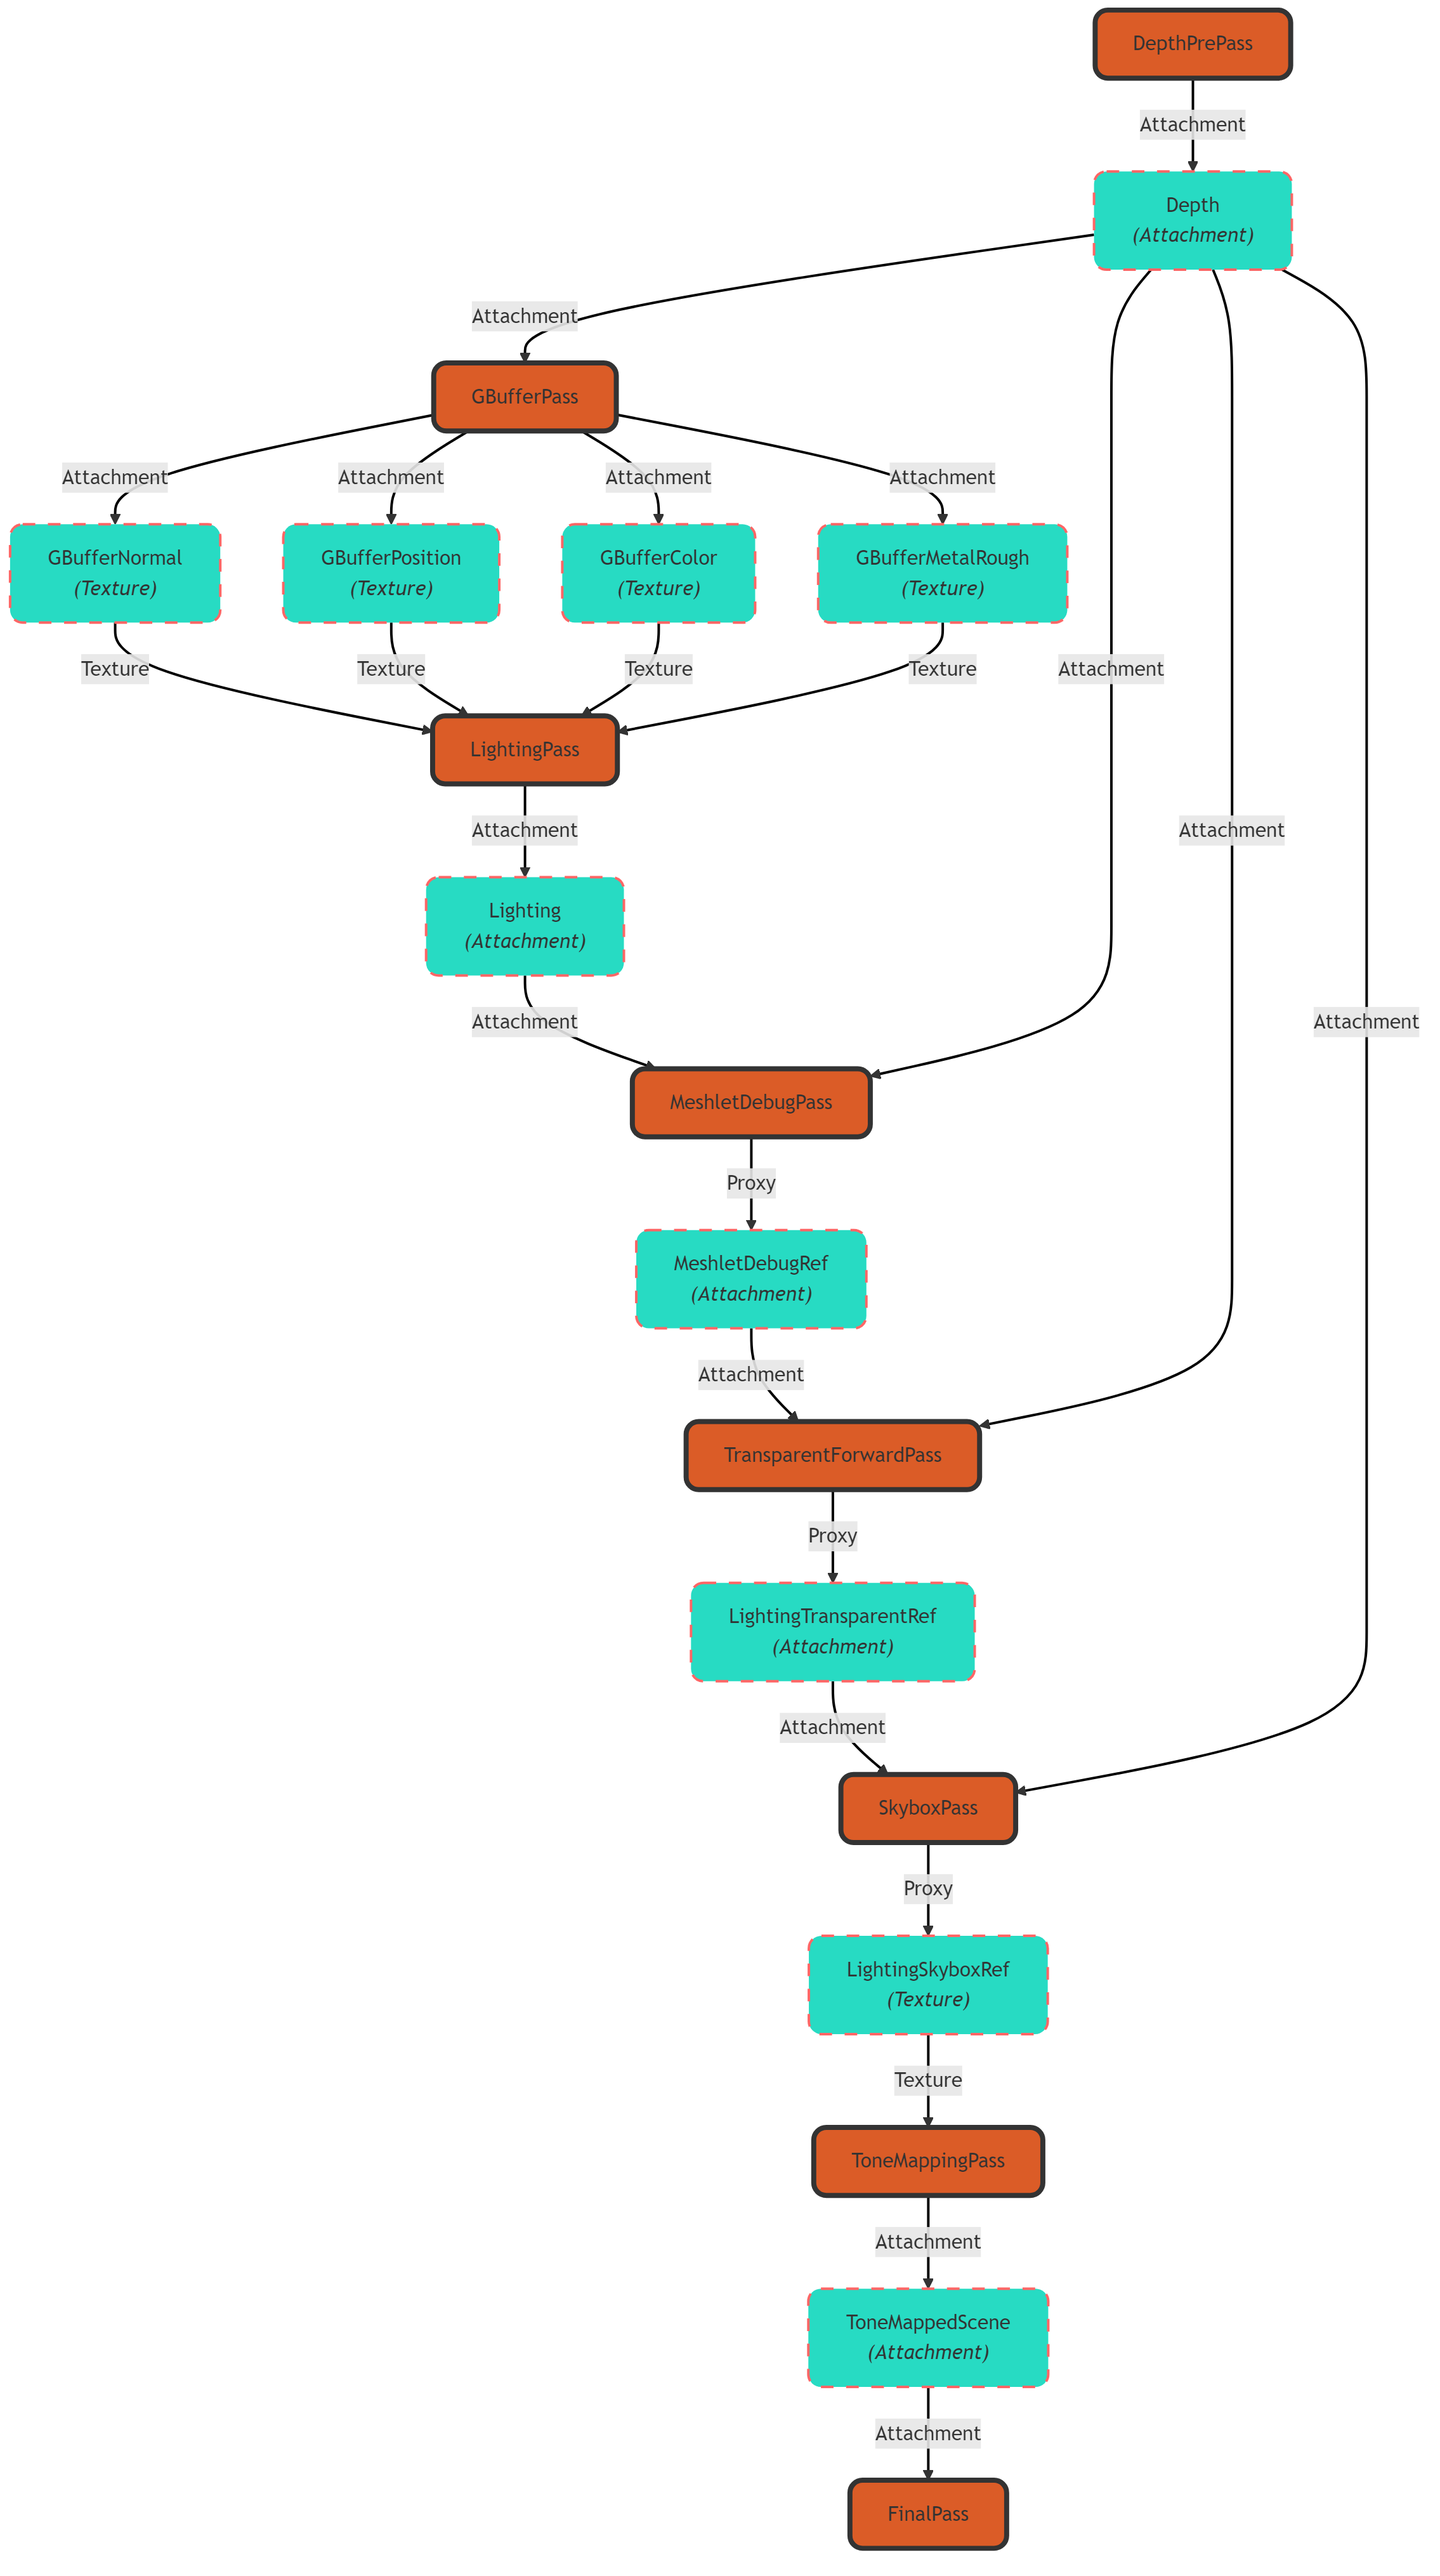
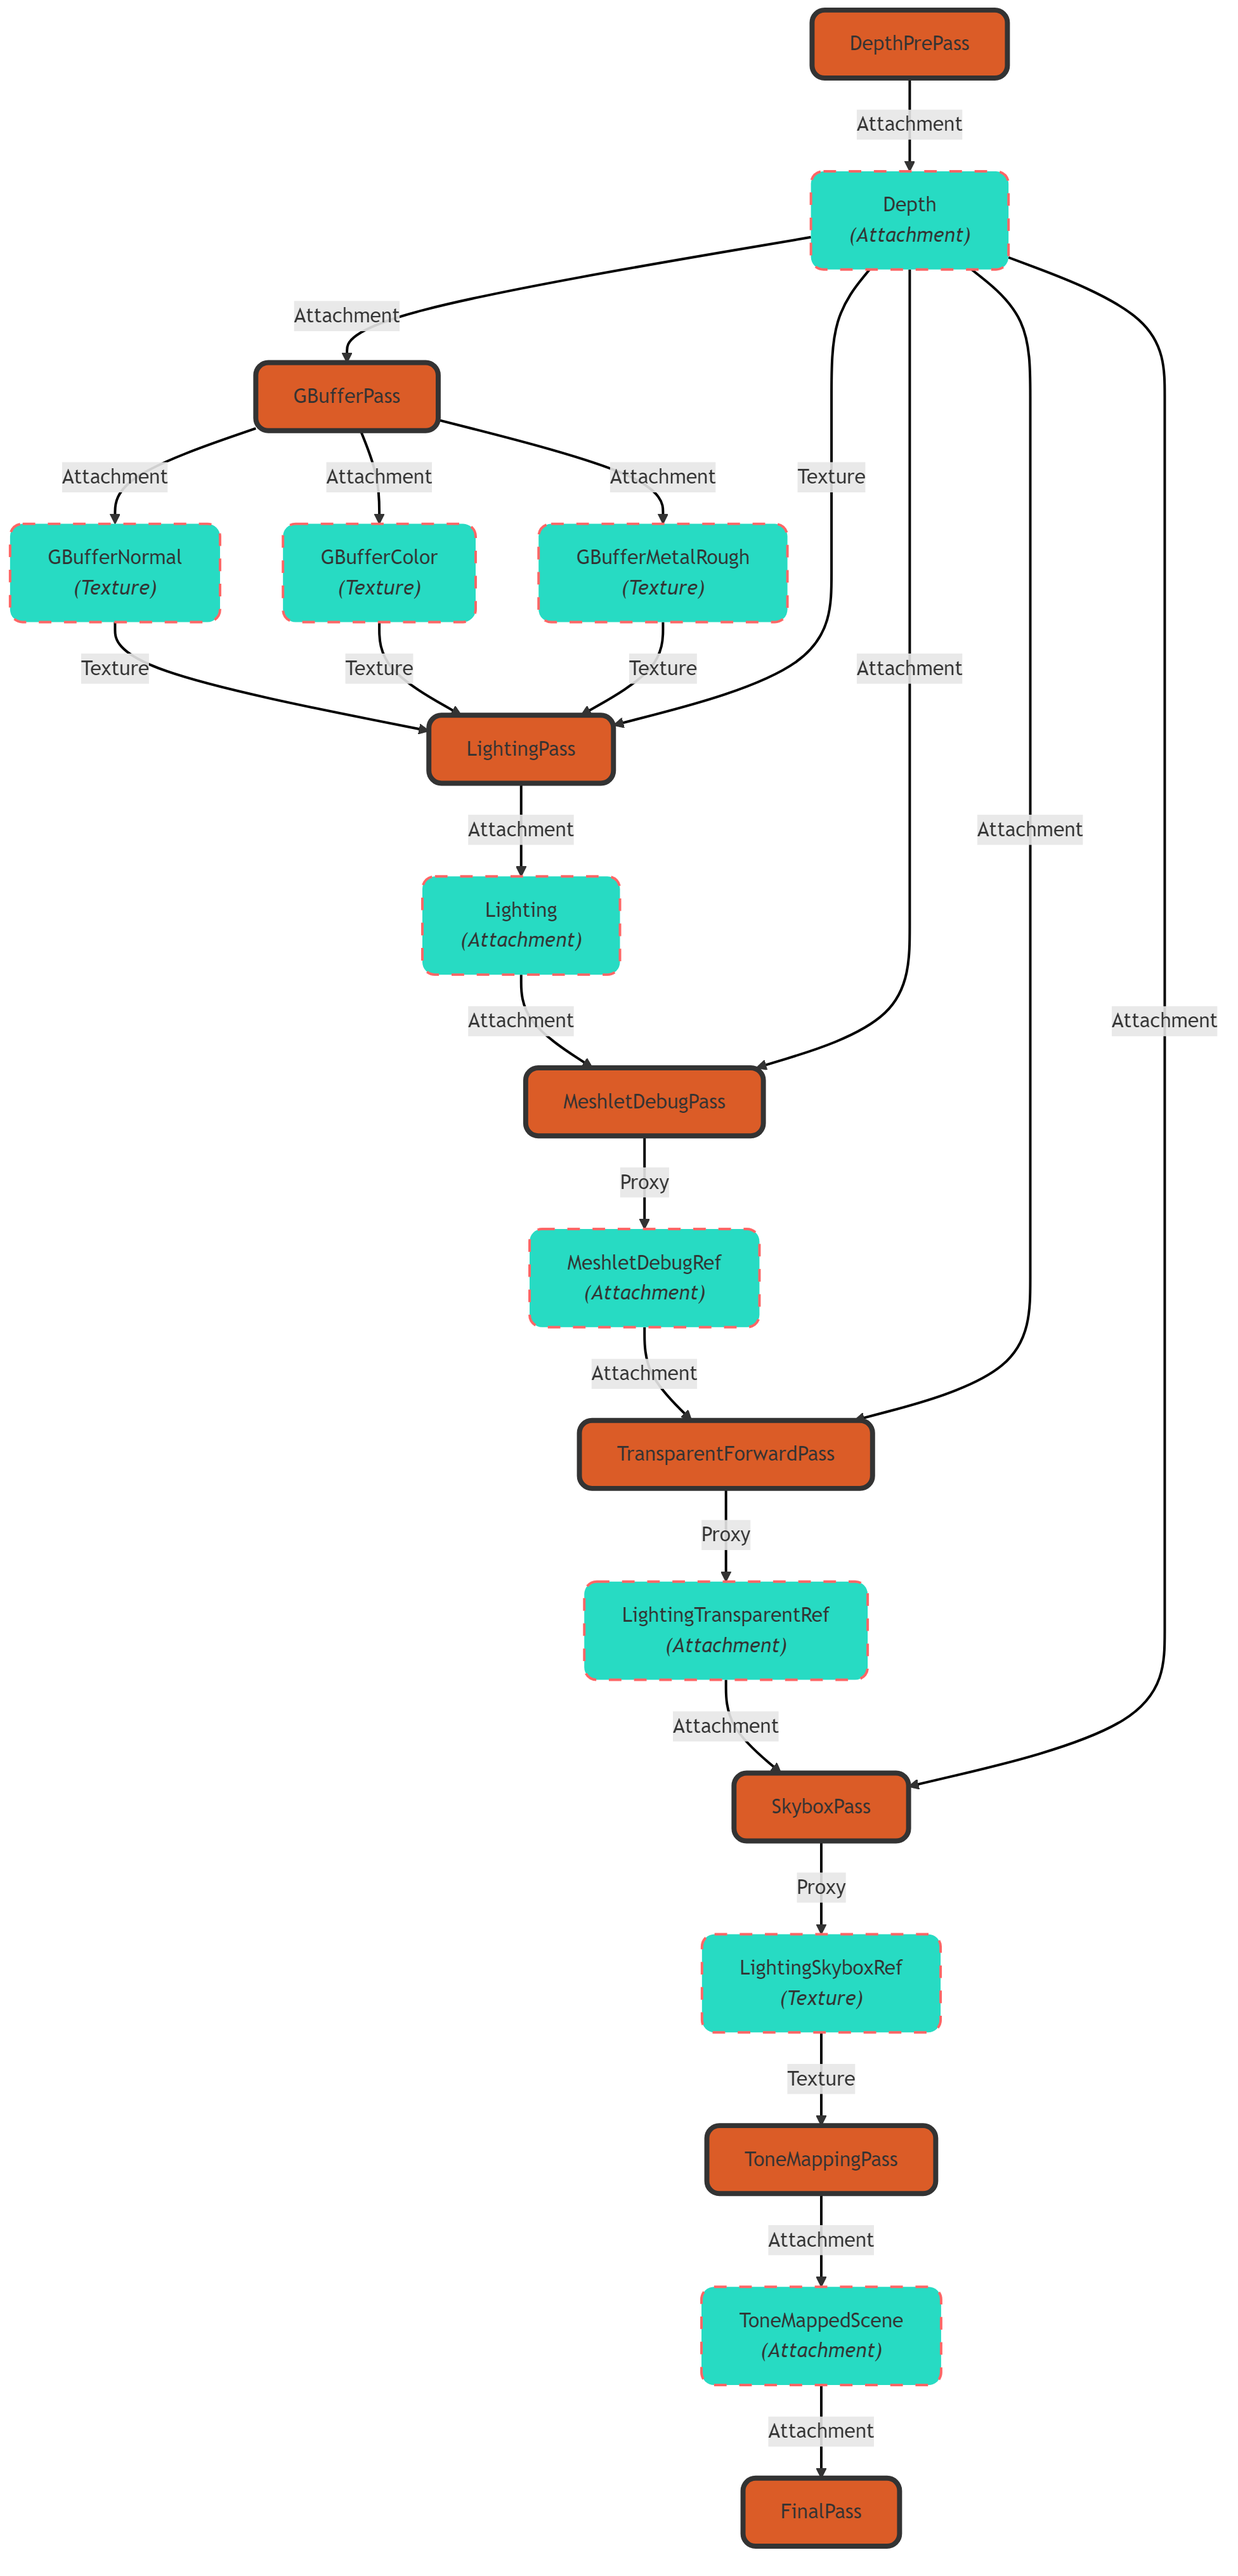
[Misc] chore: update readme

diff --git a/README.md b/README.md
@@ -29,12 +29,12 @@ This README is more of a way for me to keep track of what I did and what I'll be
 - Simple scene system. Still a big WIP
 - Meshlets rendering (still experimental and includes only cone culling for now)
 - Asynchronous GPU resource loader (textures and models for now)
+- The basic lights (directional, point and spot)
 
 ## Next steps
 - Have a scene hierarchy view using ImGui
 - Have an inspector for entities/components
 - Have a material inspector
-- HAVE MORE LIGHTS IN THE SCENE PLEASE
 - Implement shadows
 - Some comments in the code would be nice...
 - Make a better interface with ImGui
